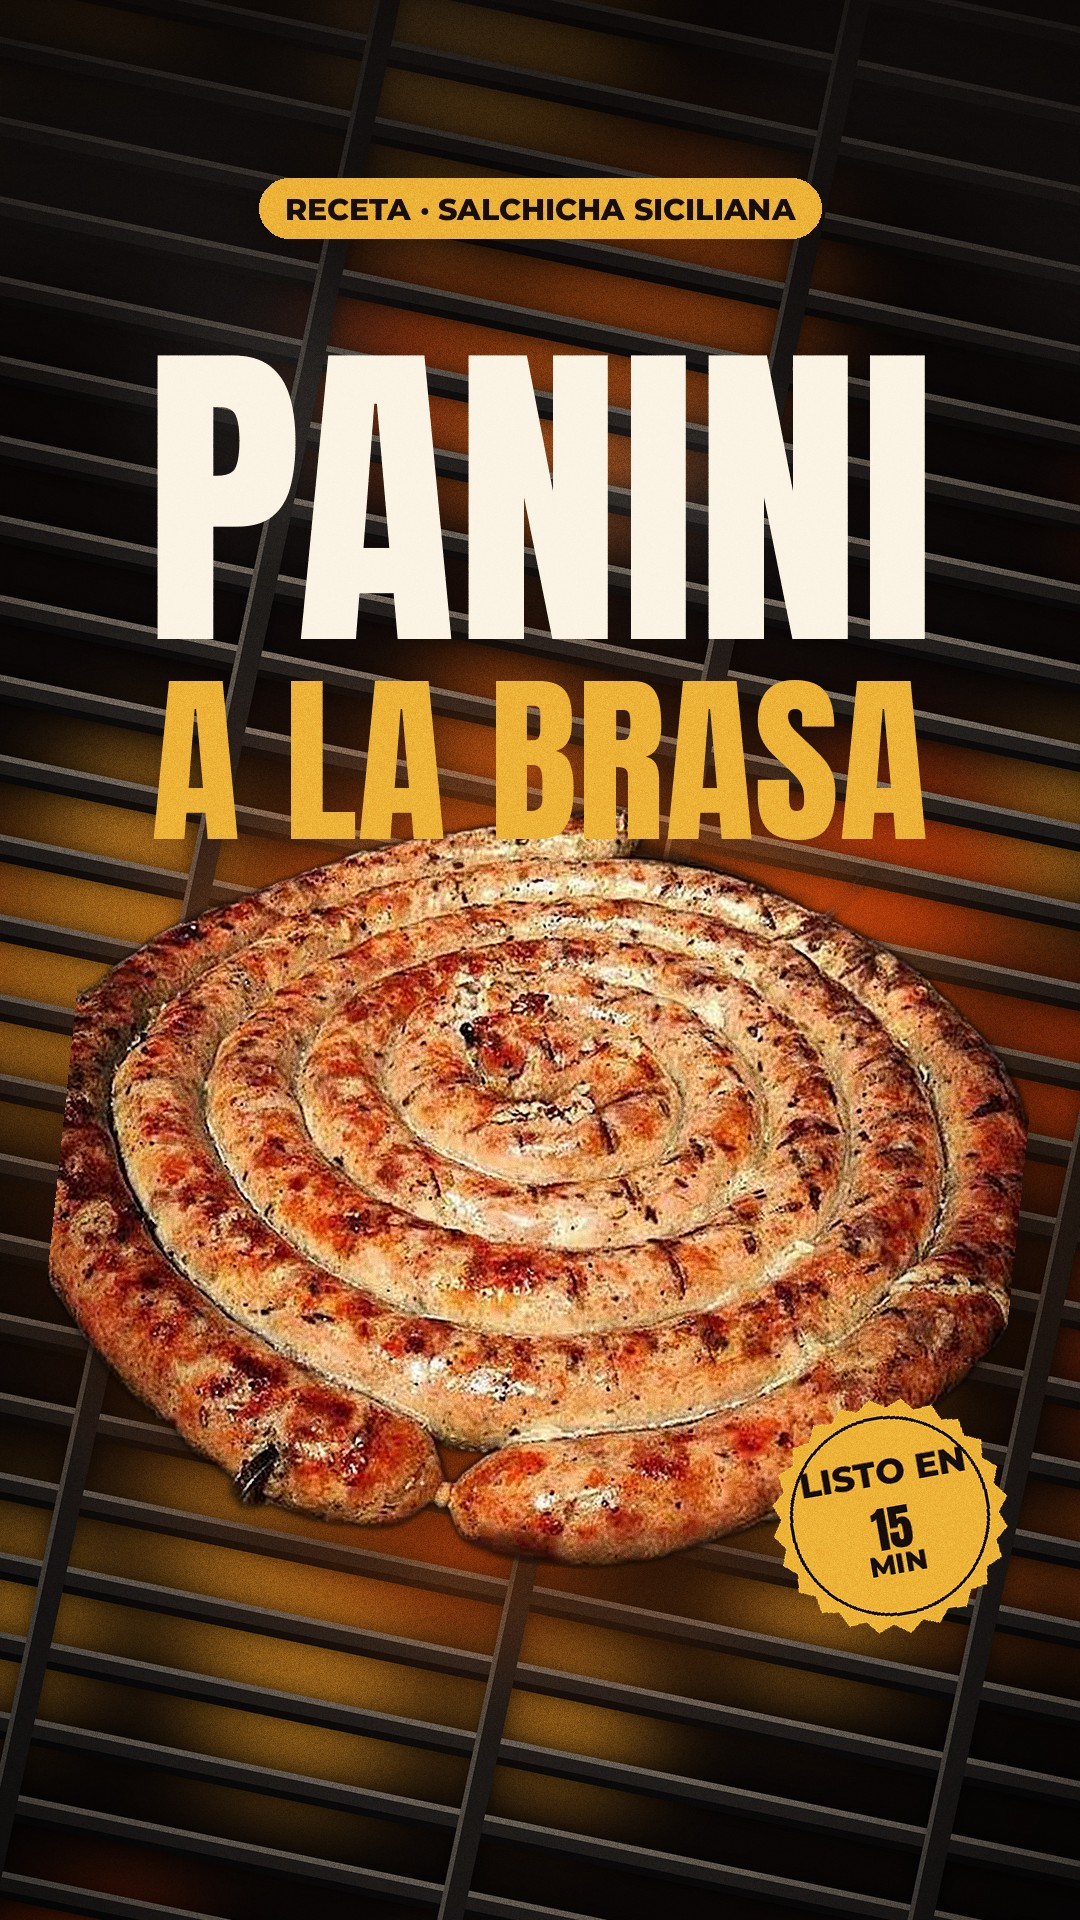
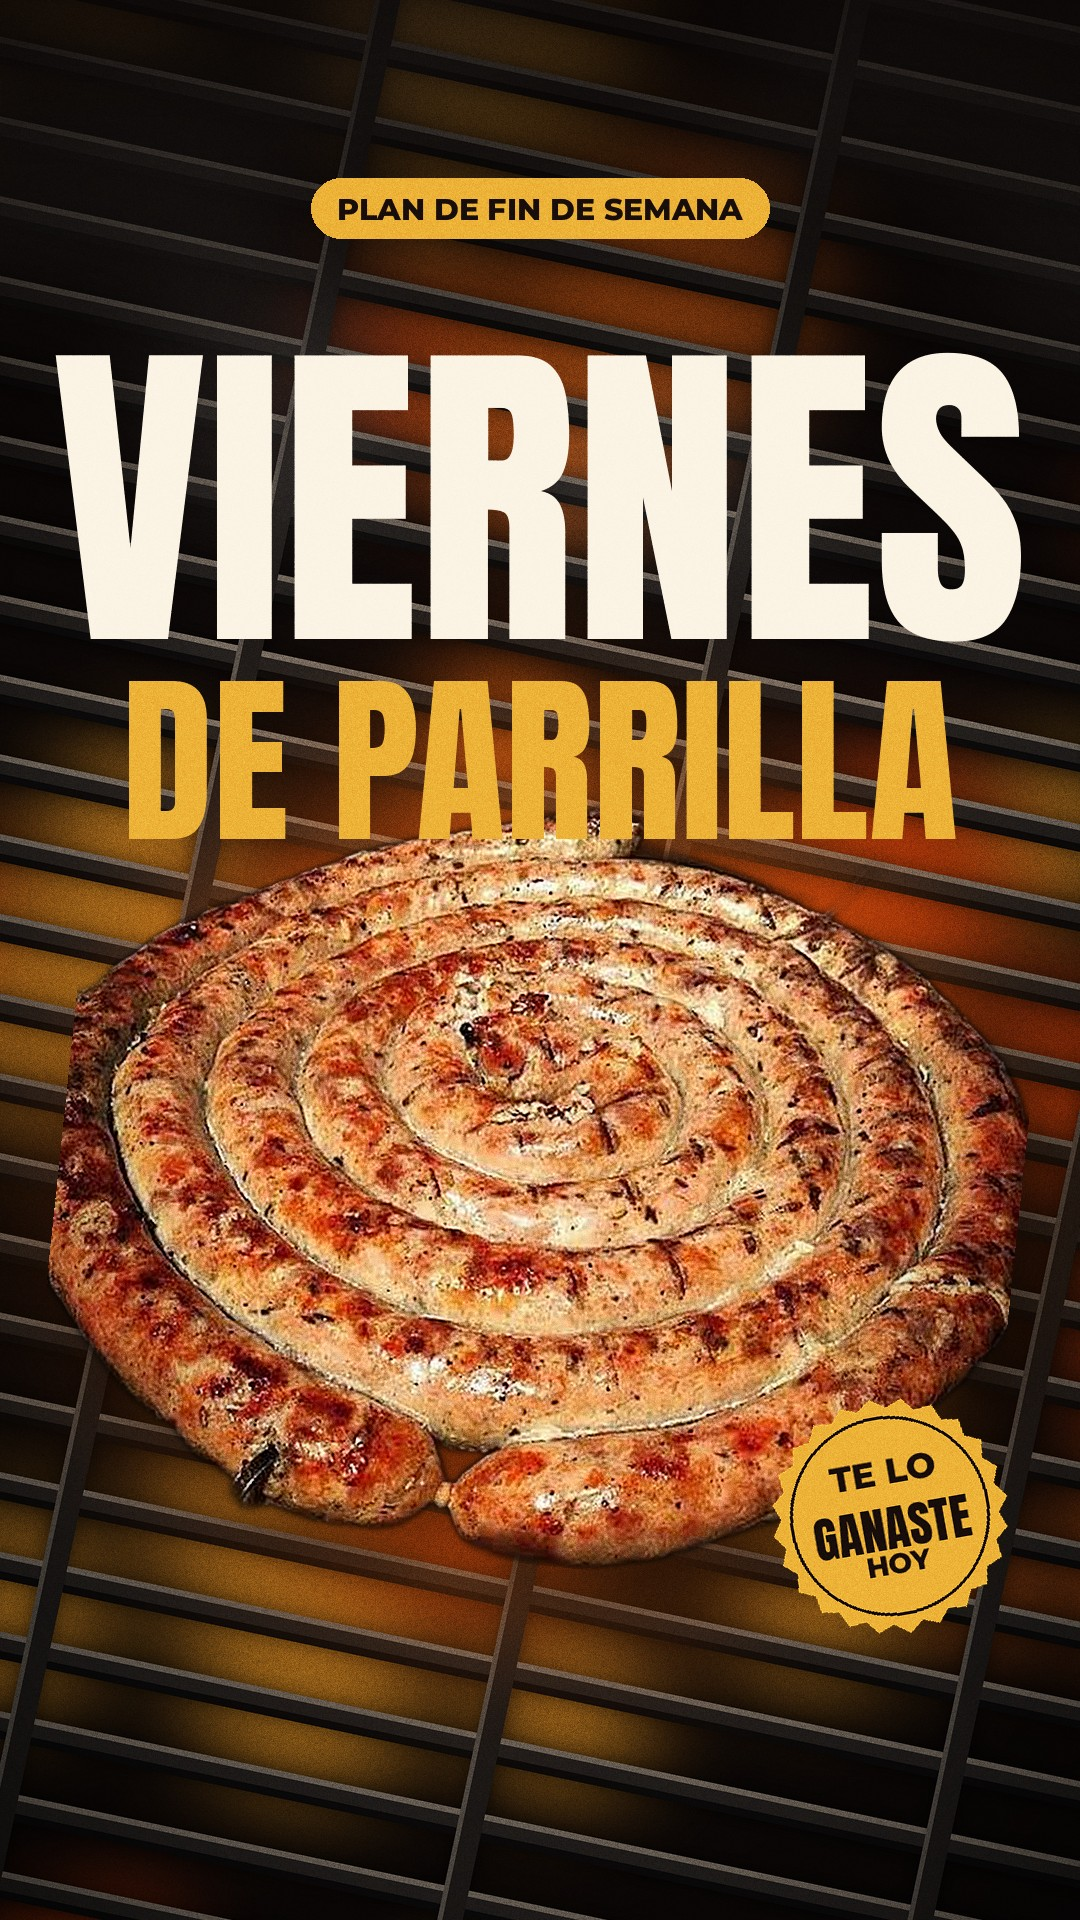
Día 2: viernes de parrilla sin panini
Claude-Session: https://claude.ai/code/session_01BoapLYkqJjC4bybfaGWR3T

Changed region(s): [[0.0306, 0.1562, 0.9472, 0.4375], [0.2444, 0.0938, 0.7639, 0.125], [0.7333, 0.75, 0.9167, 0.8438]]

diff --git a/disenos.py b/disenos.py
@@ -159,8 +159,9 @@ def lamina_foto_completa(foto, cx, cy, num, titulo, cuerpo, n, total, col=(226, 
     y = fondo - alto_txt
     # número en círculo
     r = 62
-    d.ellipse((80, y - 2 * r - 26, 80 + 2 * r, y - 26), fill=col)
-    centrar(d, y - 2 * r - 26 + 8, str(num), anton(88), CREMA, 80, 80 + 2 * r)
+    if num is not None:
+        d.ellipse((80, y - 2 * r - 26, 80 + 2 * r, y - 26), fill=col)
+        centrar(d, y - 2 * r - 26 + 8, str(num), anton(88), CREMA, 80, 80 + 2 * r)
     for l in tl:
         d.text((80, y), l, font=ft, fill=CREMA); y += int(ft.size * 1.14)
     y += 20
@@ -223,7 +224,7 @@ def lamina_ingredientes(foto, caja, titulo, items, n, total, col=(190, 40, 24)):
     b.alpha_composite(ph, (cx - dia // 2, cy - dia // 2))
     d = ImageDraw.Draw(b)
     y = o + (80 if T else 70)
-    ft = anton(125 if T else 105)
+    ft = anton(100 if T else 105)
     for l in titulo.split("\n"):
         d.text((70, y), l, font=ft, fill=OSCURO); y += int(ft.size * 1.05)
     d.rectangle((72, y + 6, 72 + 110, y + 18), fill=col)
@@ -267,4 +268,63 @@ def lamina_cierre_parrilla(titulo, lineas, boton, total, fotos=(5, 1, 2), precio
         centrar(d, yy, l, mont(34 if T else 30, "Bold"), CREMA); yy += 48
     if not T:
         pie(d, CREMA, total, total)
+    return terminar(b)
+
+
+def lamina_texto_parrilla(lineas, sub, n, total, empaque_n=5, seed=11):
+    """Frase grande sobre la parrilla. lineas = [(texto, color)], con un empaque asomando abajo."""
+    T, h, o = g.tt(), H(), oy()
+    b = parrilla_bg(h, ang=-8, seed=seed, calor=0.6)
+    b.alpha_composite(Image.new("RGBA", (W, h), (10, 6, 5, 105)))
+    humo(b, h, 0, int(h * 0.3), seed=4)
+    viñeta(b, h)
+    d = ImageDraw.Draw(b)
+    tam = 190 if T else 158
+    y = o + (150 if T else 130)
+    for txt, col in lineas:
+        d.text((70, y), txt, font=anton(tam), fill=col); y += int(tam * 1.12)
+    y += 20
+    fs = mont(46 if T else 40, "SemiBold")
+    for l in envolver(d, sub, fs, W - 300):
+        d.text((74, y), l, font=fs, fill=(244, 232, 216)); y += int(fs.size * 1.4)
+    alto = 700 if T else 560
+    p = empaque(empaque_n, alto, -14)
+    pegar_producto(b, p, (W - p.width + 80, 1290 if T else h - int(alto * 0.78)), brillo=(255, 150, 50))
+    d = ImageDraw.Draw(b)
+    if not T:
+        pie(d, CREMA, n, total)
+    return terminar(b)
+
+
+def lamina_producto_split(empaque_n, titulo, cuerpo, n, total, col=(196, 44, 26), sello=None):
+    """Arriba: parrilla con el empaque grande (corte diagonal). Abajo: panel de color con texto."""
+    T, h, o = g.tt(), H(), oy()
+    alto_f = int(h * (0.52 if T else 0.54))
+    b = radial(tuple(int(v * 0.85) for v in col), tuple(int(v * 0.3) for v in col), cy=0.8, r=1.1).convert("RGBA")
+    top = parrilla_bg(alto_f + 120, ang=-14, seed=6, calor=0.85)
+    ImageDraw.Draw(top)
+    gl = Image.new("RGBA", top.size, (0, 0, 0, 0))
+    ImageDraw.Draw(gl).ellipse((150, 60, W - 150, alto_f + 60), fill=(255, 120, 30, 130))
+    top.alpha_composite(gl.filter(ImageFilter.GaussianBlur(90)))
+    alto = int(alto_f * 0.95)
+    p = empaque(empaque_n, alto, -8)
+    pegar_producto(top, p, (W // 2 - p.width // 2, 10 + (alto_f - alto) // 2), brillo=(255, 170, 70))
+    mask = Image.new("L", top.size, 0)
+    ImageDraw.Draw(mask).polygon([(0, 0), (W, 0), (W, alto_f), (0, alto_f + 110)], fill=255)
+    top.putalpha(mask)
+    sh = Image.new("RGBA", top.size, (0, 0, 0, 0)); sh.putalpha(mask.point(lambda v: int(v * 0.6)))
+    b.alpha_composite(sh.filter(ImageFilter.GaussianBlur(24)), (0, 18))
+    b.alpha_composite(top, (0, 0))
+    if sello:
+        sticker(b, sello, 900, int(alto_f * 0.30), 108, DORADO, OSCURO, 10)
+    d = ImageDraw.Draw(b)
+    y = alto_f + 150
+    ft, fc = anton(124 if T else 112), mont(44 if T else 39, "Medium")
+    for l in g._lineas(d, titulo, ft, W - 150):
+        d.text((80, y), l, font=ft, fill=CREMA); y += int(ft.size * 1.15)
+    y += 18
+    for l in g._lineas(d, cuerpo, fc, W - 160):
+        d.text((80, y), l, font=fc, fill=(255, 236, 212)); y += int(fc.size * 1.4)
+    if not T:
+        pie(d, CREMA, n, total)
     return terminar(b)

diff --git a/dia02_v2.py b/dia02_v2.py
@@ -1,29 +1,31 @@
-"""Día 2 v2: Panini a la brasa con fotos reales. python3 dia02_v2.py"""
-import os, sys
+"""Día 2 v3: Viernes de parrilla (sin panini). python3 dia02_v2.py"""
+import os
 from PIL import Image
 import generador as g
 import disenos as D
 from contenido import WA, ENTREGA
 
 ROJO = (196, 44, 26)
+DOR = g.DORADO
+CRE = g.CREMA
 
 
 def laminas():
-    pan = D.cargar("panini.png").crop((0, 242, 452, 650))
     esp = D.cargar("espiral.png")
     total = 6
     return [
-        lambda: D.portada_parrilla("PANINI", "A LA BRASA", "RECETA · SALCHICHA SICILIANA", ["LISTO EN", "15", "MIN"], total),
-        lambda: D.lamina_ingredientes(pan, (150, 0, 452, 228), "LO QUE\nNECESITAS",
-                                      ["1 salchicha siciliana Traviani (Parrillera)", "2 pimentones, rojo y verde",
-                                       "1 cebolla en tiras", "Pan baguette o ciabatta", "Aceite de oliva, sal y pimienta"], 2, total, ROJO),
-        lambda: D.lamina_foto_completa(esp, 0.5, 0.45, 1, "ASA LA SALCHICHA",
-                                       "Fuego medio, sin apuro. Voltea una sola vez hasta que quede dorada por fuera y jugosa por dentro.", 3, total, ROJO, "PASO 1"),
-        lambda: D.lamina_split(pan, (0, 0, 452, 344), "ASA LOS PIMENTONES",
-                               "En la misma parrilla, con la cebolla. Aceite de oliva, sal y unos minutos hasta que se ablanden.", 4, total, ROJO, "2"),
-        lambda: D.lamina_foto_completa(pan, 0.85, 0.5, 3, "ARMA EL PAN",
-                                       "Abre el pan, mete la salchicha y llénalo de pimentones y cebolla. Listo para morder.", 5, total, ROJO, "PASO 3"),
-        lambda: D.lamina_cierre_parrilla("PIDE TU\nPARRILLERA", ENTREGA + [WA], "ESCRÍBENOS POR WHATSAPP", total),
+        lambda: D.portada_parrilla("VIERNES", "DE PARRILLA", "PLAN DE FIN DE SEMANA", ["TE LO", "GANASTE", "HOY"], total),
+        lambda: D.lamina_texto_parrilla([("¿CANSADO DE", CRE), ("UNA SEMANA", CRE), ("COMPLETA DE", CRE), ("TRABAJO?", DOR)],
+                                        "Este viernes se acabó.", 2, total),
+        lambda: D.lamina_foto_completa(esp, 0.5, 0.45, None, "OLVÍDATE DE TODO",
+                                       "Cierra la laptop, apaga el teléfono del trabajo y enciende la parrilla.", 3, total, ROJO, "ESTE VIERNES"),
+        lambda: D.lamina_ingredientes(esp, (60, 60, 500, 500), "EL PLAN\nPERFECTO",
+                                      ["Cervezas bien frías", "Tus panas de siempre", "Música y buena conversación",
+                                       "La parrilla encendida"], 4, total, ROJO),
+        lambda: D.lamina_producto_split(5, "EL SABOR DE HOY: PARRILLERA",
+                                        "Pensada para el carbón. Enrollada en espiral, delgada y hecha a mano en Caracas.", 5, total, ROJO,
+                                        ["SOLO", "$10", "1/2 KG"]),
+        lambda: D.lamina_cierre_parrilla("TE LO\nGANASTE", ENTREGA + [WA], "PIDE DIRECTO CON NOSOTROS", total),
     ]
 
 
